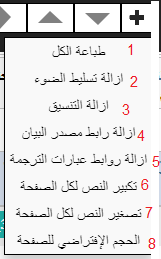
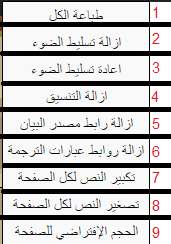
dddddddddddddddd

diff --git a/www/help.html b/www/help.html
@@ -543,23 +543,25 @@ gTopicId = "0_1";
 <img class="shadowfilter" src="clientscript/images/move.gif" tppabs="http://localhost/vb_423/archive/clientscript/images/move.gif" alt="" style="width:100%; max-width:270px" /></div>
 <br />
 <div class="shadow" dir="rtl">اوامر اضافية:</div>
-<div class="transparent2" dir="rtl">ستايل المتجاوب لحجم الشاشة<br />
+<div class="transparent2" dir="rtl">
 <img class="shadowfilter" src="clientscript/images/menres.png" tppabs="http://localhost/vb_423/archive/clientscript/images/menres.png" alt="" style="width:100%; max-width:270px" /><br />
 (1)<br />
 امر طباعة كل النصوص الموجودة في الصفحة الحالية للموسوعة...<br />
 (2)<br />
 هذا امر يزيل تسليط الضوء الحالي على النصوص وهو مفيد في حال اردنا نسخ بيان معين في الصفحة بدون وجود اللون الاصفر على النصوص...<br />
 (3)<br />
-هذا الامر يزيل كل التنسيقات الموجودة في النصوص الصفحة الظاهرة لاغراض الطباعة والنسخ بحيث يبقى فقط النصوص خالية من اكواد <span dir="ltr">html</span>...<br />
+هذا امر يعيد تسليط الضوء  على النصوص وهو مفيد في حال اردنا ابجاد كلمة البحث من جديد في حال فقدناها...<br />
 (4)<br />
-ازالة رابط مصدر البيان الموجود في اعلى كل بيان وهو مفيد في حال طباعة البيان من دونه...<br />
+هذا الامر يزيل كل التنسيقات الموجودة في النصوص الصفحة الظاهرة لاغراض الطباعة والنسخ بحيث يبقى فقط النصوص خالية من اكواد <span dir="ltr">html</span>...<br />
 (5)<br />
-ازالة راوبط الترجمات لكل بيان في الصفحة....<br />
+ازالة رابط مصدر البيان الموجود في اعلى كل بيان وهو مفيد في حال طباعة البيان من دونه...<br />
 (6)<br />
-كما في الصورة امر تكبير حجم الخط لكل النصوص في صفحة الموسوعة الحالية...<br />
+ازالة راوبط الترجمات لكل بيان في الصفحة....<br />
 (7)<br />
-كما في الصورة امر تصغير حجم الخط لكل النصوص في صفحة الموسوعة الحالية...<br />
+كما في الصورة امر تكبير حجم الخط لكل النصوص في صفحة الموسوعة الحالية...<br />
 (8)<br />
+كما في الصورة امر تصغير حجم الخط لكل النصوص في صفحة الموسوعة الحالية...<br />
+(9)<br />
 يعيد حجم خط النصوص في صفحة الموسوعة الى وضعها الافتراضي او الطبيعي...<br />
 <hr style="color:black;" />
 <img class="shadowfilter" src="clientscript/images/close.png" tppabs="http://localhost/vb_423/archive/clientscript/images/close.png" alt="" style="width:100%; max-width:60px" /><br />

diff --git a/www/index.html b/www/index.html
@@ -376,10 +376,26 @@ You Can Contact me at "mirzanove@gmail.com" if you need more informations..
 <script>
 
 
+if(location.href.indexOf("http://127.0.0.9:3030/") !=-1){
 
+document.getElementById("onlineEn").classList.add("hide");
+}
+else if(location.href.indexOf("file:") !=-1){
+ document.getElementById("onlineEn").classList.add("hide");
+}
+else if(location.href.indexOf("http://") !=-1){
+   document.getElementById("offlineEn").classList.add("hide");
+   document.getElementById("onlinev").classList.add("hide");
+}
+else if(location.href.indexOf("http://") !=-1){
+   document.getElementById("offlineEn").classList.add("hide");
+   document.getElementById("onlinev").classList.add("hide");
+}
 
+/*
 switch(window.location.protocol) {
    case 'http:':
+  
    document.getElementById("offlineEn").classList.add("hide");
    document.getElementById("onlinev").classList.add("hide");
    
@@ -391,10 +407,13 @@ switch(window.location.protocol) {
    case 'file:':
 	 document.getElementById("onlineEn").classList.add("hide");
      break;
+   case 'http://127.0.0.9:3030/':
+   document.getElementById("onlineEn").classList.add("hide");
+   break;
    default: 
      //some other protocol
 }
-
+*/
 
 /* When the user clicks on the button, 
 toggle between hiding and showing the dropdown content */

diff --git a/www/jqmStyle.html b/www/jqmStyle.html
@@ -408,7 +408,7 @@ document.getElementsByClassName("loading2")[0].style.display = 'block';
 	<form action="" method="post" autocomplete="on">
  
 	 <td>
-	 <input id = "wSearchField" class="wSearchField" type="search"  data-class="no-filter: !@KEY_FEATURE.filter" data-attr="placeholder: @KEY_LNG.Search"
+	 <input id = "wSearchField" autocomplete="on" 
 	data-value="KEY_SEARCH_TERM" data-keyup="$mc.newSearch(node.value, event.keyCode, event)"/>   
 
 	 </td>
